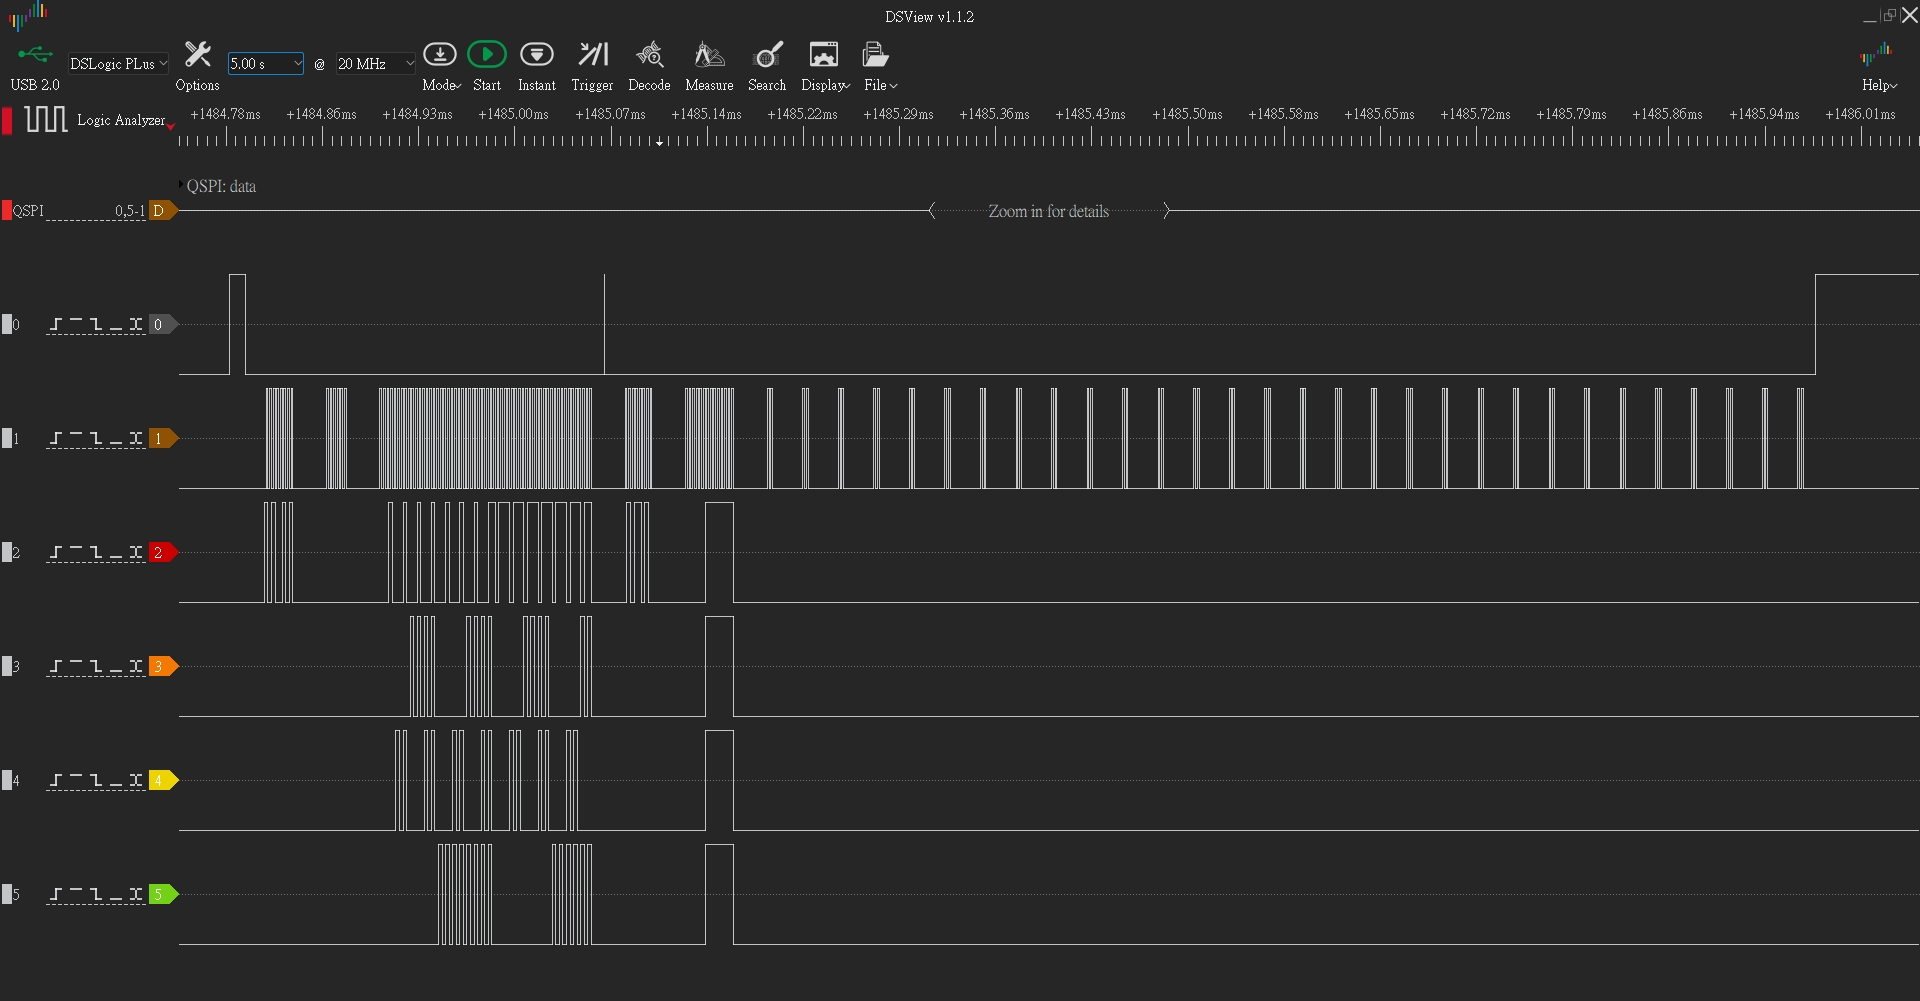
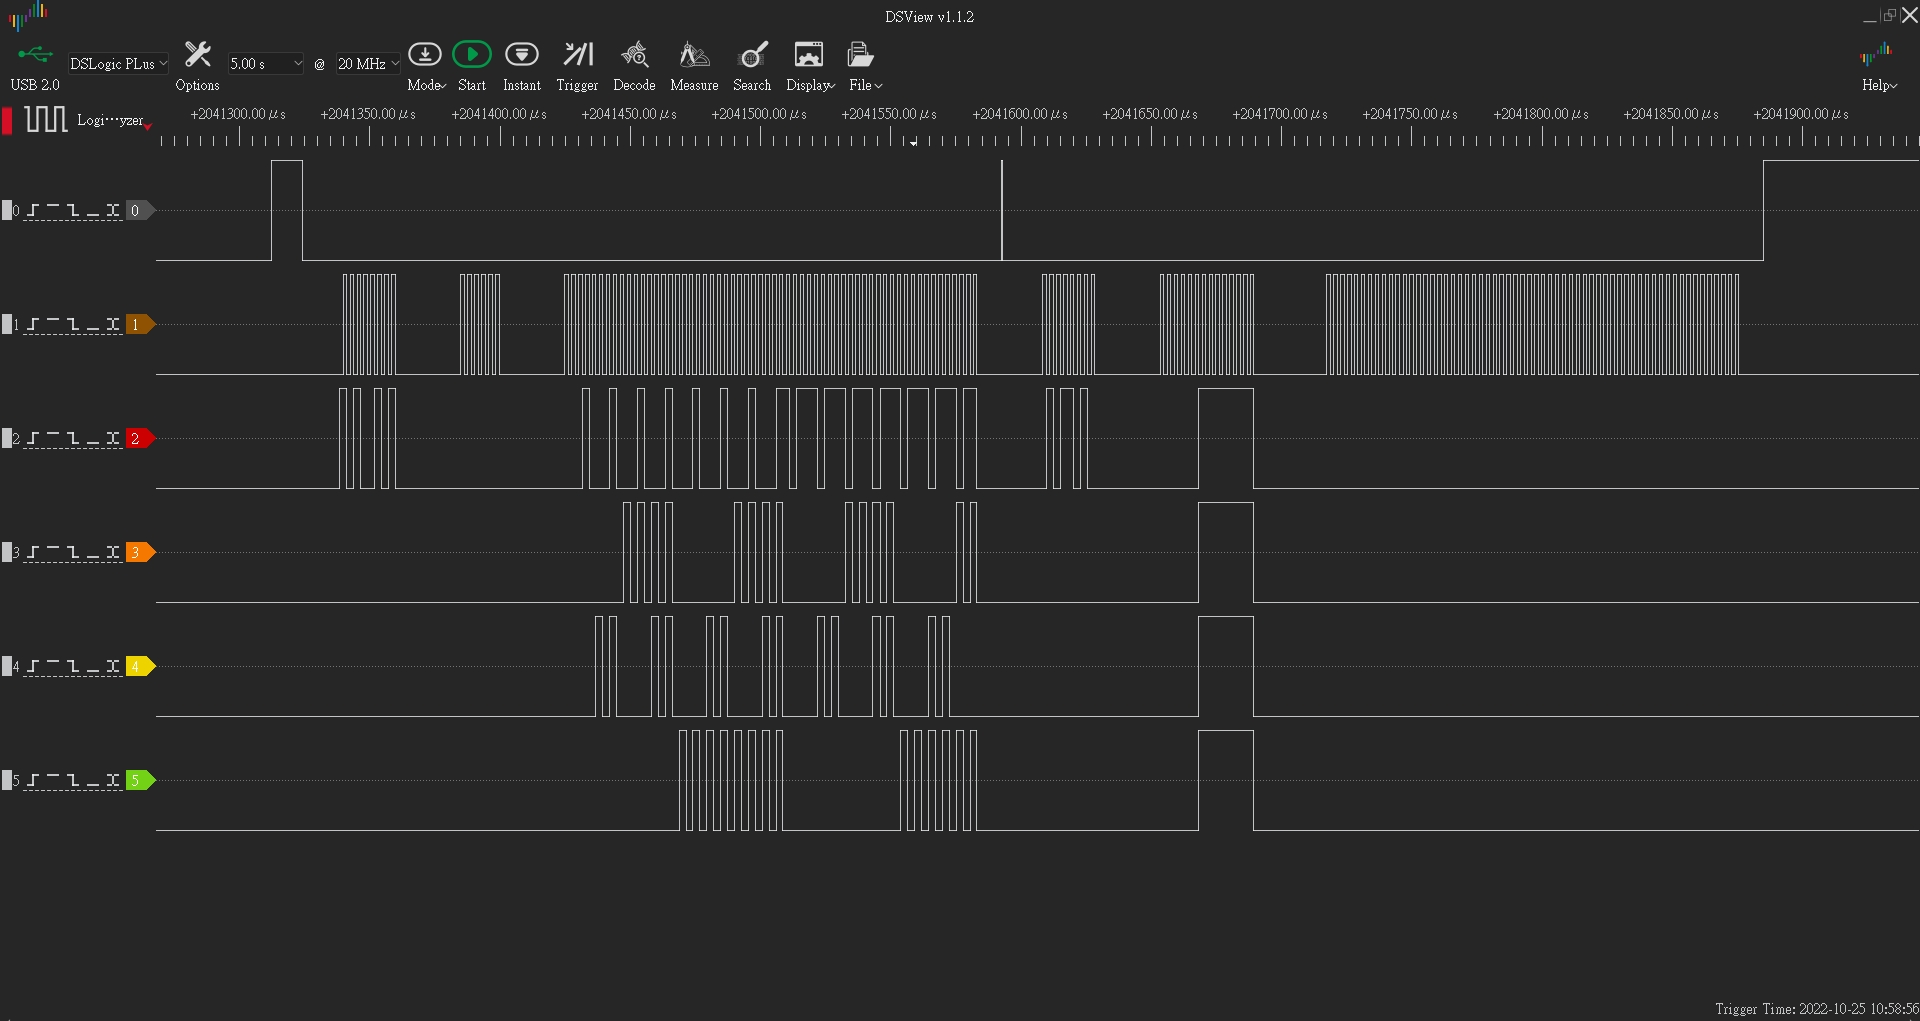
update
update

diff --git a/SampleCode/Template/main.c b/SampleCode/Template/main.c
@@ -387,6 +387,26 @@ void PDMA_IRQHandler(void)
 
 void QSPIReadDataWithDMA(unsigned char *pBuffer , unsigned short size)
 {
+    #if 1
+    uint8_t tBuffer[30] = {0xFF};
+    set_flag(flag_qspi_tx_finish , DISABLE);
+    set_flag(flag_qspi_rx_finish , DISABLE);    
+    PDMA_SetTransferCnt(PDMA,QSPI_MASTER_TX_DMA_CH, PDMA_WIDTH_8, 30);
+    PDMA_SetTransferAddr(PDMA,QSPI_MASTER_TX_DMA_CH, (uint32_t)tBuffer, PDMA_SAR_INC, (uint32_t)&QSPI0->TX, PDMA_DAR_FIX);
+    PDMA_SetTransferMode(PDMA,QSPI_MASTER_TX_DMA_CH, PDMA_QSPI0_TX, FALSE, 0);    
+
+    PDMA_SetTransferCnt(PDMA,QSPI_MASTER_RX_DMA_CH, PDMA_WIDTH_8, size);
+    PDMA_SetTransferAddr(PDMA,QSPI_MASTER_RX_DMA_CH, (uint32_t)&QSPI0->RX, PDMA_SAR_FIX, (uint32_t)pBuffer, PDMA_DAR_INC);
+    PDMA_SetTransferMode(PDMA,QSPI_MASTER_RX_DMA_CH, PDMA_QSPI0_RX, FALSE, 0);   
+
+    QSPI_TRIGGER_TX_PDMA(QSPI0);
+    QSPI_TRIGGER_RX_PDMA(QSPI0);    
+
+    while(!is_flag_set(flag_qspi_tx_finish));
+    while(!is_flag_set(flag_qspi_rx_finish));    
+    while(QSPI_IS_BUSY(QSPI0)); 
+    QSPI_SET_SS_HIGH(QSPI0);
+    #else
     set_flag(flag_qspi_rx_finish , DISABLE);
     PDMA_SetTransferCnt(PDMA,QSPI_MASTER_RX_DMA_CH, PDMA_WIDTH_8, size);
     PDMA_SetTransferAddr(PDMA,QSPI_MASTER_RX_DMA_CH, (uint32_t)&QSPI0->RX, PDMA_SAR_FIX, (uint32_t)pBuffer, PDMA_DAR_INC);
@@ -396,6 +416,7 @@ void QSPIReadDataWithDMA(unsigned char *pBuffer , unsigned short size)
     while(!is_flag_set(flag_qspi_rx_finish));
     while(QSPI_IS_BUSY(QSPI0)); 
     QSPI_SET_SS_HIGH(QSPI0);    
+    #endif
 }
 
 int ReadSlaveRxRegs(unsigned char ChipNo , 
